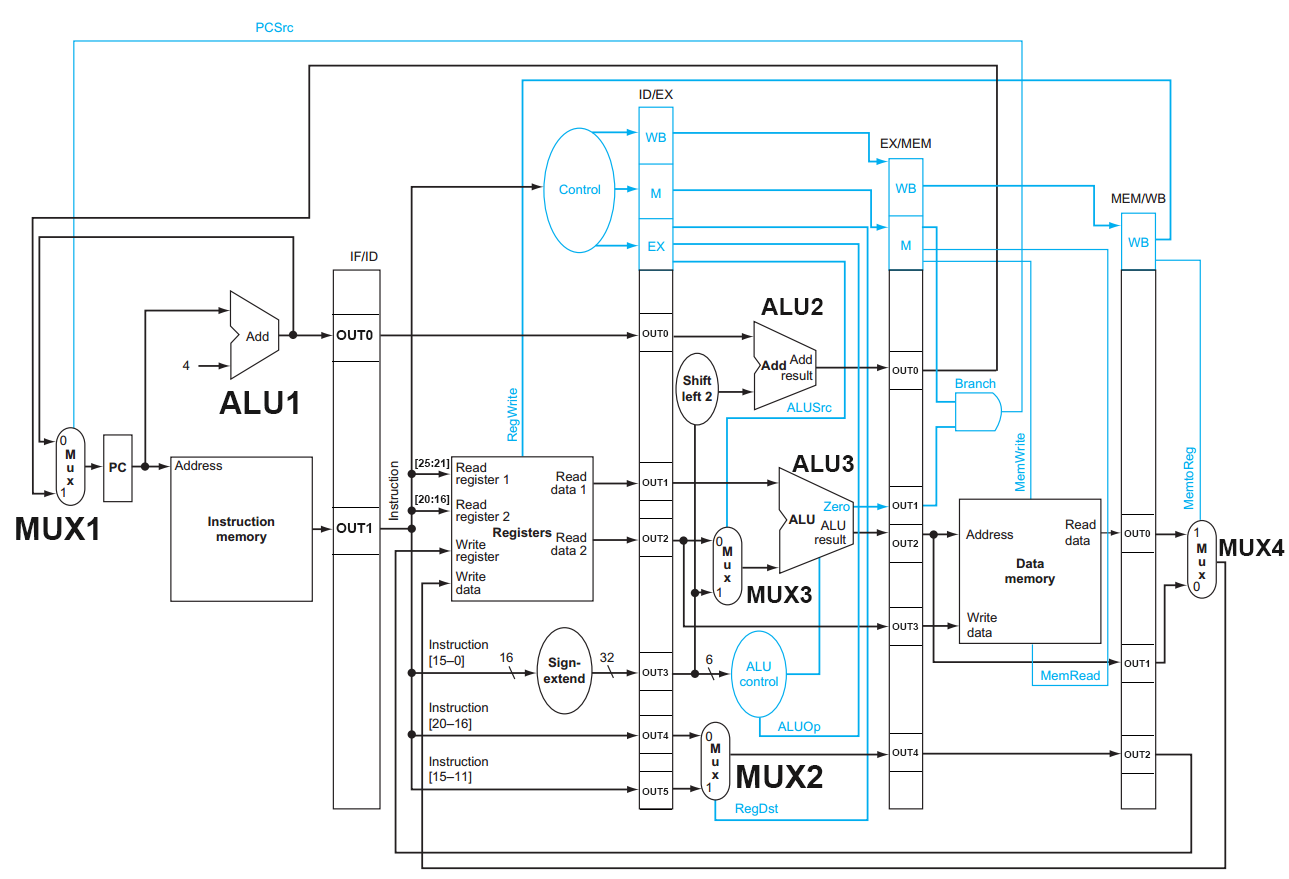
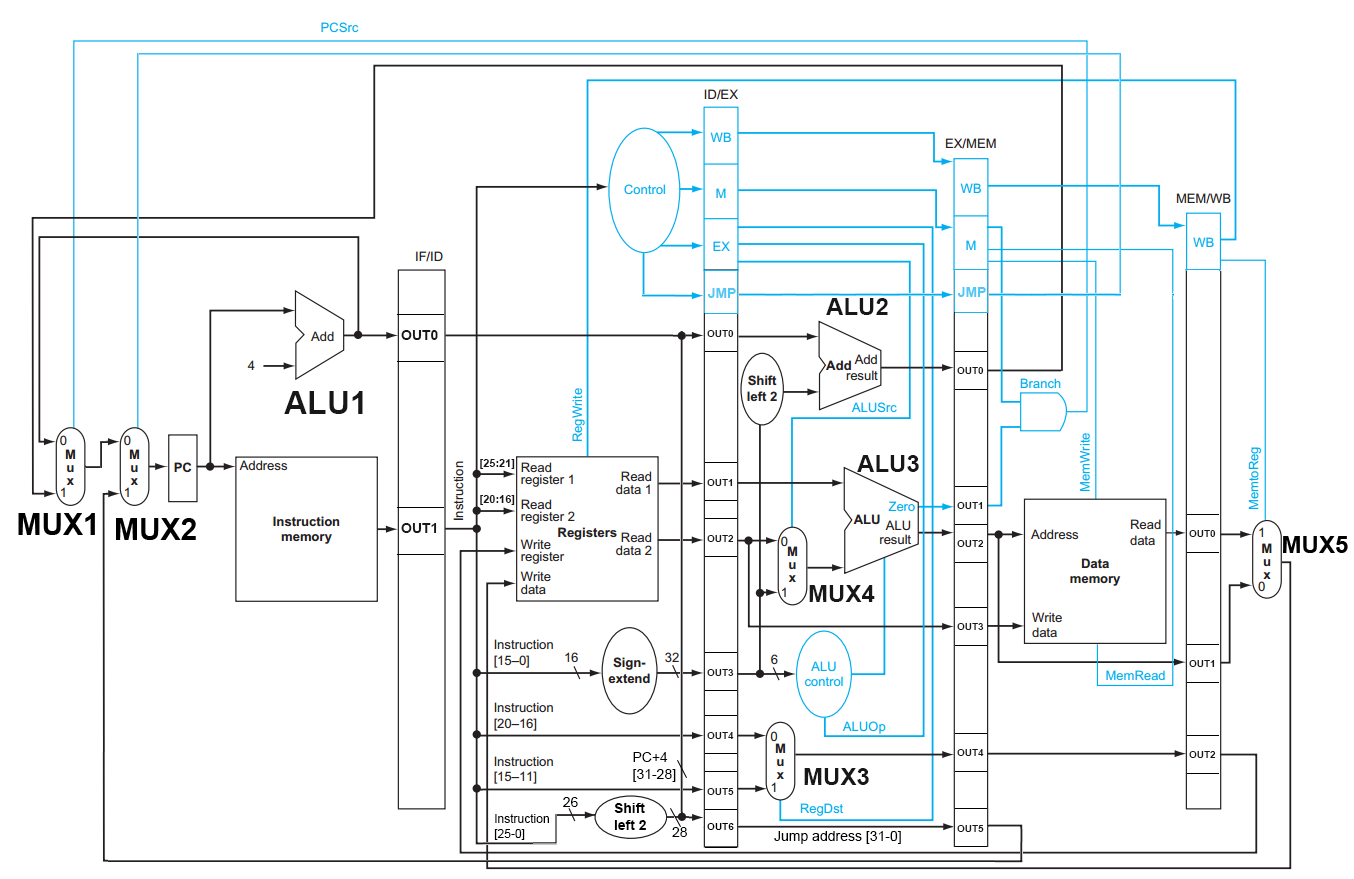
Jumps implemented

Changed region(s): [[0.0, 0.0307, 1.0, 0.9829], [0.2172, 0.0307, 0.2793, 0.0922]]

diff --git a/src/mipsy/core/dataphases/EX.java b/src/mipsy/core/dataphases/EX.java
@@ -18,8 +18,8 @@ public class EX extends DataPhase {
     private ALUComponent alu2 = new ALUComponent("ALU2");
     private ALUComponent alu3 = new ALUComponent("ALU3");
 
+    private MUXComponent mux4 = new MUXComponent("MUX4");
     private MUXComponent mux3 = new MUXComponent("MUX3");
-    private MUXComponent mux2 = new MUXComponent("MUX2");
 
     private ALUControllerComponent aluControl = new ALUControllerComponent("ALU_C");
 
@@ -33,7 +33,10 @@ public class EX extends DataPhase {
     private int MemToReg;
     private int MemWrite;
     private int RegWrite;
+    private int Jump;
     private boolean isHalt;
+
+    private int idexout6;
 
     @Override
     public boolean step(Consumer<String> logger) throws NoMoreInstructionsException {
@@ -49,13 +52,13 @@ public class EX extends DataPhase {
 
         logger.accept("START");
 
-        mux2.setA(idex.OUT4, logger);
-        mux2.setB(idex.OUT5, logger);
-        mux2.setSelector(idex.RegDst);
+        mux3.setA(idex.OUT4, logger);
+        mux3.setB(idex.OUT5, logger);
+        mux3.setSelector(idex.RegDst);
 
-        mux3.setA(idex.OUT2.value, logger);
-        mux3.setB(idex.OUT3, logger);
-        mux3.setSelector(idex.AluSrc);
+        mux4.setA(idex.OUT2.value, logger);
+        mux4.setB(idex.OUT3, logger);
+        mux4.setSelector(idex.AluSrc);
 
         if ( idex.currentInstruction.getType() == Instruction.Type.RType )
             aluControl.setInstruction(Utility.SubBits(idex.OUT3, 0, 6));
@@ -66,24 +69,27 @@ public class EX extends DataPhase {
 
         alu3.setControl(logger, aluControl.getResult(logger));
         alu3.setOpA(logger, idex.OUT1.value);
-        alu3.setOpB(logger, mux3.getResult(logger));
+        alu3.setOpB(logger, mux4.getResult(logger));
 
         alu2.setOpB(logger, idex.OUT3 << 2);
         alu2.setOpA(logger, idex.OUT0);
         alu2.setControl(logger, ALUComponent.CONTROL_ADD);
 
         idexout2 = idex.OUT2;
+        idexout6 = idex.OUT6;
 
         Branch = idex.Branch;
         MemRead = idex.MemRead;
         MemToReg = idex.MemToReg;
         MemWrite = idex.MemWrite;
         RegWrite = idex.RegWrite;
+        Jump = idex.Jump;
+        idex.Jump = 0; // "consume" this jump
 
         idex.clear();
 
         logger.accept("END");
-        return true;
+        return !core.IDEX.isHalt;
     }
 
     @Override
@@ -92,7 +98,7 @@ public class EX extends DataPhase {
 
         EXMEM exmem = core.EXMEM;
 
-        exmem.OUT4 = mux2.getResult(logger);
+        exmem.OUT4 = mux3.getResult(logger);
         exmem.OUT3 = idexout2;
         exmem.OUT2 = alu3.getResult(logger);
         exmem.OUT1 = alu3.getZero();
@@ -102,6 +108,8 @@ public class EX extends DataPhase {
         exmem.MemToReg = MemToReg;
         exmem.MemWrite = MemWrite;
         exmem.RegWrite = RegWrite;
+        exmem.Jump = Jump;
+        exmem.OUT5 = idexout6;
 
         exmem.isHalt = isHalt;
     }

diff --git a/src/mipsy/core/dataphases/IF.java b/src/mipsy/core/dataphases/IF.java
@@ -18,13 +18,17 @@ import java.util.function.Consumer;
 public class IF extends DataPhase {
     private ALUComponent alu1 = new ALUComponent("ALU1");
     private MUXComponent mux1 = new MUXComponent("MUX1");
+    private MUXComponent mux2 = new MUXComponent("MUX2");
+
     private int pc = 0;
     List<Instruction> instructions;
     private Instruction currInstruction;
 
     //povratne sprege
     public int PCSrc = 0;
+    public int Jump = 0;
     public int EX_MEM_OUT0 = 0;
+    public int EX_MEM_OUT5 = 0; //JumpAddr
     public int ALU1_RES = 0;
 
     public boolean isStalling = false;
@@ -46,6 +50,11 @@ public class IF extends DataPhase {
     @Override
     public boolean step(Consumer<String> logger) throws NoMoreInstructionsException {
         logger = Utility.appendToLogger("IF - ", logger);
+
+        if ( core.IFID.isHalt ) {
+            logger.accept("IS HALTING");
+            return false;
+        }
 
         if ( isStalling ) {
             logger.accept("STALLING");
@@ -72,7 +81,12 @@ public class IF extends DataPhase {
         mux1.setA(ALU1_RES, logger);
         mux1.setB(EX_MEM_OUT0, logger);
 
-        pc = mux1.getResult(logger);
+        mux2.setSelector(Jump);
+        mux2.setA(mux1.getResult(logger), logger);
+        mux2.setB(EX_MEM_OUT5, logger);
+
+
+        pc = mux2.getResult(logger);
         logger.accept(String.format("Current PC is 0x%s", Integer.toHexString(pc)));
 
         alu1.setControl(logger, ALUComponent.CONTROL_ADD);

diff --git a/src/mipsy/core/dataphases/ID.java b/src/mipsy/core/dataphases/ID.java
@@ -111,7 +111,7 @@ public class ID extends DataPhase {
         core.IFID.OUT1 = null;
 
         logger.accept("END");
-        return true;
+        return !core.IFID.isHalt;
     }
 
     @Override
@@ -131,6 +131,8 @@ public class ID extends DataPhase {
         core.IDEX.Branch = control.getBranch();
         core.IDEX.RegDst = control.getRegDst();
         core.IDEX.RegWrite = control.getRegWrite();
+        core.IDEX.Jump = control.getJump();
+
         control.reset();
 
         core.IDEX.OUT0 = core.IFID.OUT0;
@@ -140,6 +142,15 @@ public class ID extends DataPhase {
         core.IDEX.OUT3 = SignExtendComponent.extend(Utility.SubBits(currInst, 0, 16));
         core.IDEX.OUT4 = Utility.SubBits(currInst,16, 21);
         core.IDEX.OUT5 = Utility.SubBits(currInst,11,16);
+
+        //This one is a bit tricky, we take the [25-0] bits from the instruction,
+        //do a left shift 2 to get 28 bits,
+        //and finally, fill the remaining bits 4 ( [31-28] ) with the [31-28] bits from
+        //PC + 4
+        core.IDEX.OUT6 =
+                (Utility.SubBits(currInst, 0, 26) << 2) |
+                Utility.SubBits( core.IFID.OUT0, 28, 32 );
+
 
         core.IDEX.isHalt = currInst == 0;
         core.IDEX.currentInstruction = currInstruction;

diff --git a/src/mipsy/core/components/ControlComponent.java b/src/mipsy/core/components/ControlComponent.java
@@ -38,7 +38,7 @@ public class ControlComponent {
         if ( currInstruction != null ) {
             if (currInstruction.getClass() == InstructionLw.class) return 0;
 
-            //I tip instrukcija mora na MUX2 pustiti operand a
+            //I tip instrukcija mora na MUX3 pustiti operand a
             if (currInstruction.getType() == Instruction.Type.IType) return 0;
         }
 
@@ -53,7 +53,7 @@ public class ControlComponent {
             if ( currInstruction.getClass() == InstructionBeq.class ) return 0;
             if ( currInstruction.getClass() == InstructionBne.class ) return 0;
 
-            // Ostale I tip instrukcije traze da se na MUX3 pusti Operand B
+            // Ostale I tip instrukcije traze da se na MUX4 pusti Operand B
             if (currInstruction.getType() == Instruction.Type.IType) return 1;
         }
 
@@ -108,6 +108,16 @@ public class ControlComponent {
         if ( currInstruction != null ) {
             if (currInstruction.getClass() == InstructionLw.class) return 1;
         }
+
+        return 0;
+    }
+
+
+    public int getJump() {
+        if ( currInstruction == null ) return 0;
+
+        if ( currInstruction.getType() == Instruction.Type.JType )
+            return 1;
 
         return 0;
     }

diff --git a/src/mipsy/core/dataphases/WB.java b/src/mipsy/core/dataphases/WB.java
@@ -11,7 +11,7 @@ import java.util.function.Consumer;
  * Created by adnan on 05.04.2017..
  */
 public class WB extends DataPhase {
-    private MUXComponent mux4 = new MUXComponent("MUX4");
+    private MUXComponent mux5 = new MUXComponent("MUX5");
 
     public WB(MIPSCore core) {
         super(core);
@@ -32,19 +32,19 @@ public class WB extends DataPhase {
 
         logger.accept("START");
 
-        mux4.setA(memwb.OUT1, logger);
-        mux4.setB(memwb.OUT0, logger);
-        mux4.setSelector(memwb.MemToReg);
+        mux5.setA(memwb.OUT1, logger);
+        mux5.setB(memwb.OUT0, logger);
+        mux5.setSelector(memwb.MemToReg);
 
         core.ID.registersComponent.setRegWrite(memwb.RegWrite);
         core.ID.registersComponent.setWriteRegister(memwb.OUT2);
-        core.ID.registersComponent.setWriteData(logger, mux4.getResult(logger));
+        core.ID.registersComponent.setWriteData(logger, mux5.getResult(logger));
 
         isHalt = memwb.isHalt;
 
         logger.accept("END");
 
-        return true;
+        return !isHalt;
     }
 
     @Override

diff --git a/src/mipsy/MainController.java b/src/mipsy/MainController.java
@@ -375,8 +375,8 @@ public class MainController implements Initializable {
             Register evaluated = mipsCore.registers.get(r.getKey());
 
             if ( evaluated.value != r.getValue().value ) {
-                throw new TestFailedException(String.format("Test failed! Value in register %s is expected to be %s, found %s",
-                        r.getKey(), r.getValue().value, evaluated.value));
+                throw new TestFailedException(String.format("Test failed! Value in register %s is expected to be %s, found %s (src file name %s)",
+                        r.getKey(), r.getValue().value, evaluated.value, srcFile.getName()));
             }
         }
 

diff --git a/src/mipsy/core/dataphases/MEM.java b/src/mipsy/core/dataphases/MEM.java
@@ -37,6 +37,9 @@ public class MEM extends DataPhase {
         logger.accept("START");
 
         core.IF.PCSrc = exmem.Branch * exmem.OUT1;
+        core.IF.Jump = exmem.Jump;
+
+        core.IF.EX_MEM_OUT5 = exmem.OUT5;
         core.IF.EX_MEM_OUT0 = exmem.OUT0;
         if ( exmem.Branch == 1 )
             core.IF.isStalling = false;
@@ -58,7 +61,7 @@ public class MEM extends DataPhase {
 
         logger.accept("END");
 
-        return true;
+        return !exmem.isHalt;
     }
 
     @Override

diff --git a/src/mipsy/core/dataphases/IDEX.java b/src/mipsy/core/dataphases/IDEX.java
@@ -15,7 +15,7 @@ public class IDEX {
     public int MemRead;
     public int Branch;
     public int MemToReg;
-
+    public int Jump;
 
     public int OUT0;
     public Register OUT1;
@@ -23,6 +23,7 @@ public class IDEX {
     public int OUT3;
     public int OUT4;
     public int OUT5;
+    public int OUT6; //JumpAddr
 
     public boolean isHalt;
 

diff --git a/src/mipsy/core/dataphases/EXMEM.java b/src/mipsy/core/dataphases/EXMEM.java
@@ -11,12 +11,14 @@ public class EXMEM {
     public int MemRead;
     public int MemToReg;
     public int RegWrite;
+    public int Jump;
 
     public int OUT0;
     public int OUT1;
     public int OUT2;
     public Register OUT3;
     public int OUT4;
+    public int OUT5; //JumpAddr
 
     public boolean isHalt;
 }

diff --git a/README.md b/README.md
@@ -5,7 +5,7 @@ MIPSy is a (very) simple pipelined MIPS simulator based on the MIPS architecture
 It's basically a Java implementation of all units described mostly in chapters 4.3 and 4.4 of the book.
 
 The GUI is written in JavaFX 2.  
-![gui](https://github.com/adnanel/mipsy/raw/master/gui.png "Logo Title Text 1")
+![gui](https://github.com/adnanel/mipsy/raw/master/gui.png "GUI screenshot")
 
 
 # Supported instructions
@@ -24,9 +24,9 @@ Sub         |  sub $s1,$s1,$s2 |   YES   |  $s1 = $s1 - $s2
 Nor         |  nor $s1,$s2,$s3 |   YES   |  $s1 = !( $s2 \| $s3 )
 Beq         |  beq $s1,$s2,15  |   YES   |  if $s1 == $s2 then pc += 15 * 4           
 Slt         |  slt $s1,$s2,$s3 |   YES   |  if $s2 < $s3 then $s1 = 1 else $s1 = 0           
-SltI        |  slt $s1,$s2,10  |   YES   |  if $s2 < 10 then $s1 = 1 else $s1 = 0           
-Bne         |  bne $s1,$s2,15  |   NO    |  if $s1 != $s2 then pc += 15 * 4          
-J           |  j 5             |   NO    |  pc = 4 * 5
+SltI        |  slt $s1,$s2,10  |   YES   |  if $s2 < 10 then $s1 = 1 else $s1 = 0            
+J           |  j 5             |   YES   |  pc = 4 * 5         
+Bne         |  bne $s1,$s2,15  |   NO    |  if $s1 != $s2 then pc += 15 * 4
 Jal         |  jal 15          |   NO    |              
 Jr          |  jr $s1          |   NO    |  pc = $s1    
 Lb          |  lb $s1, 15($s2) |   NO    |  $s1 = MEMORY[ $s2 + 15 ] & 0xFFFFFF
@@ -44,15 +44,15 @@ Srl         |                  |   NO    |
 Halt        |  halt            |   YES   |             
 
 Total:   30  
-Working: 14
+Working: 15
 
 # The simulated data path
 Below is a picture of the simulated pipeline. It's a slightly modified book version with added labels and a clear distinction of the phases and named temp registers which are used to transfer data between stages.   
-![datapath](https://github.com/adnanel/mipsy/blob/master/src/mipsy/ui/ra_mipsy.png?raw=true "Logo Title Text 1")
+![datapath](https://github.com/adnanel/mipsy/blob/master/src/mipsy/ui/ra_mipsy.png?raw=true "MIPSy simulated architecture")
   
 ## Not working instructions
-All instructions which are currently supported, but don't work as intended *cannot* work with the current architecture design. (e.g. jump instructions are impossible to implement without a way to write immediate values to PC). 
-In order to implement them, certain changes to the design need to be applied (as described in the end of chapter 4.4 of the earlier mentioned book) which is planned as soon as I find some free time.
+All instructions which are currently supported, but don't work as intended *cannot* work with the current architecture design. 
+In order to implement them, certain changes to the design need to be applied, which is planned as soon as I find some free time.
 
 
 # Hazard detection
